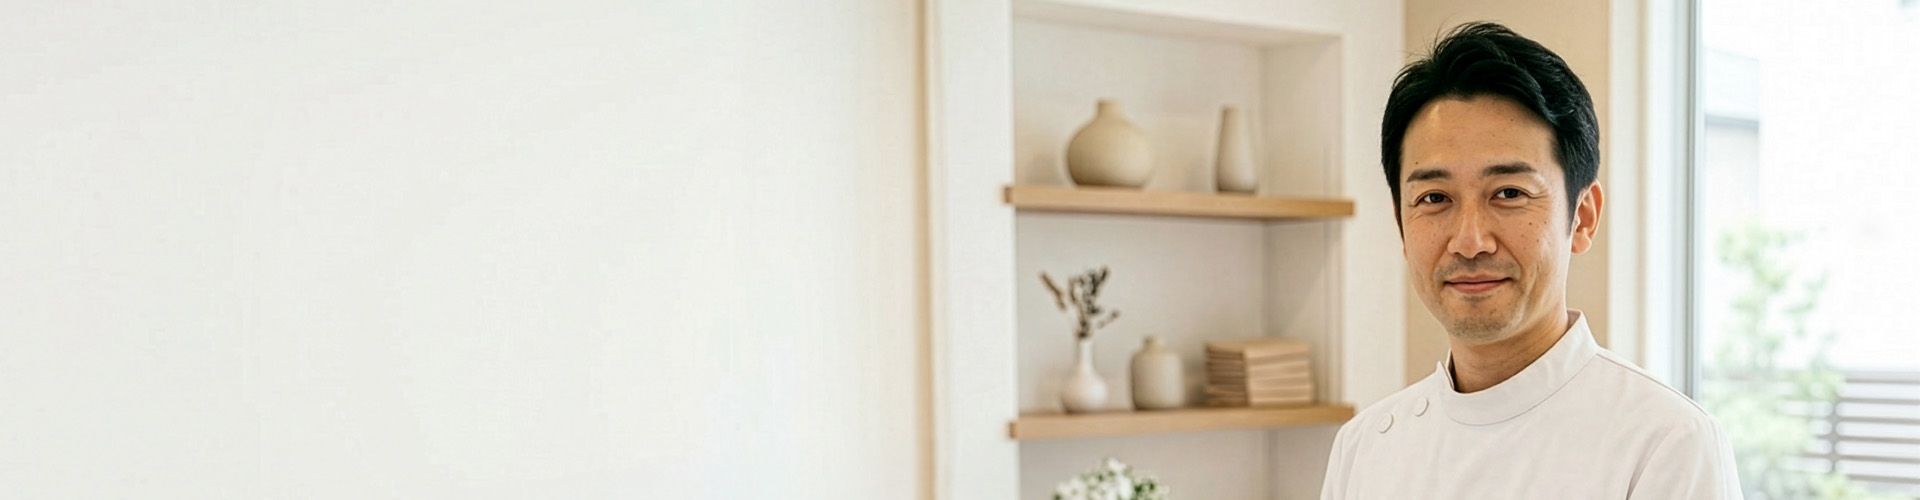
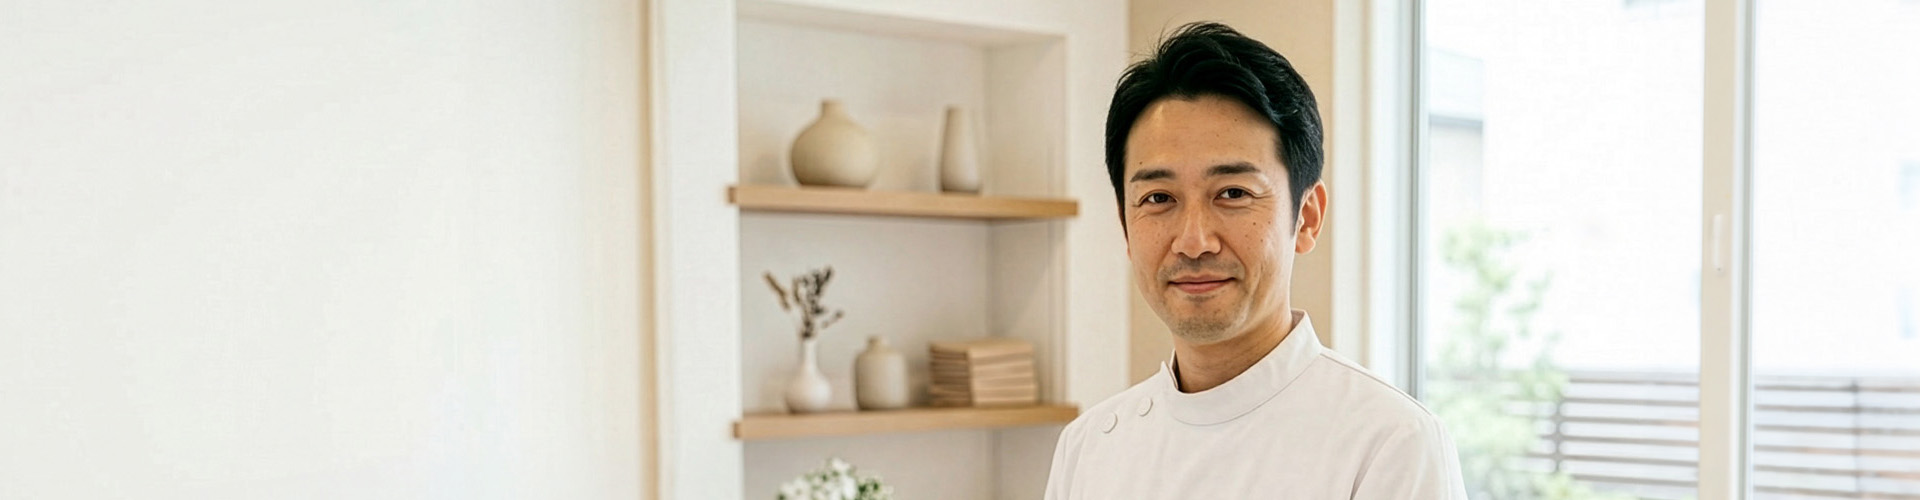
html修正、画像追加・修正

diff --git a/design_handoff_sasai_seikotu_lp/sasai_seikotu.html b/design_handoff_sasai_seikotu_lp/sasai_seikotu.html
@@ -205,7 +205,7 @@
     <!-- image -->
     <div class="lg:col-span-5 relative">
       <div class="relative aspect-[4/5] rounded-[2rem] overflow-hidden shadow-2xl shadow-brand-900/10 ring-1 ring-brand-900/5">
-        <img src="https://placehold.co/640x800/2d8a6e/ffffff?text=施術風景" alt="笹井整骨院 施術風景" class="w-full h-full object-cover" />
+        <img src="images/hero_sasai.jpg" alt="笹井整骨院 施術風景" class="w-full h-full object-cover" />
         <!-- floating badge -->
         <div class="absolute top-5 left-5 bg-white/95 backdrop-blur rounded-2xl px-4 py-3 shadow-lg">
           <div class="text-[10px] text-ink-500 font-semibold tracking-widest">SINCE 2008</div>
@@ -296,7 +296,7 @@
       <div class="lg:col-span-5 lg:sticky lg:top-28">
         <div class="relative">
           <div class="relative aspect-[4/5] rounded-[2rem] overflow-hidden shadow-xl">
-            <img src="https://placehold.co/520x650/e9e4d8/3a4a45?text=お悩みの患者様" alt="事故後の不調に悩む患者様" class="w-full h-full object-cover" />
+            <img src="images/onayami_sasai.jpg" alt="事故後の不調に悩む患者様" class="w-full h-full object-cover" />
           </div>
           <div class="absolute -top-4 -right-4 bg-alert text-white rounded-full w-24 h-24 grid place-items-center text-center shadow-lg rotate-[8deg]">
             <div>
@@ -329,7 +329,7 @@
         </div>
         <div class="grid lg:grid-cols-12 gap-8 lg:gap-12 items-start">
           <div class="lg:col-span-5">
-            <img src="https://placehold.co/600x450/2d8a6e/ffffff?text=Reason+01" alt="" class="w-full aspect-[4/3] object-cover rounded-2xl shadow-lg" />
+            <img src="images/reason1_sasai.jpg" alt="笹井整骨院 専門施術の様子" class="w-full aspect-[4/3] object-cover rounded-2xl shadow-lg" />
           </div>
           <div class="lg:col-span-7">
             <h3 class="serif font-black text-2xl lg:text-3xl leading-snug">事故対応 3,200件以上の<br/>経験に裏打ちされた施術</h3>
@@ -367,7 +367,7 @@
             </div>
           </div>
           <div class="lg:col-span-5 lg:order-1">
-            <img src="https://placehold.co/600x450/dcefe3/206d58?text=Reason+02" alt="" class="w-full aspect-[4/3] object-cover rounded-2xl shadow-lg" />
+            <img src="images/reason2_sasai.jpg" alt="自賠責保険手続きの説明を受ける患者様" class="w-full aspect-[4/3] object-cover rounded-2xl shadow-lg" />
           </div>
         </div>
       </div>
@@ -381,7 +381,7 @@
         </div>
         <div class="grid lg:grid-cols-12 gap-8 lg:gap-12 items-start">
           <div class="lg:col-span-5">
-            <img src="https://placehold.co/600x450/206d58/ffffff?text=Reason+03" alt="" class="w-full aspect-[4/3] object-cover rounded-2xl shadow-lg" />
+            <img src="images/reason3_sasai.jpg" alt="オーダーメイド施術の手元" class="w-full aspect-[4/3] object-cover rounded-2xl shadow-lg" />
           </div>
           <div class="lg:col-span-7">
             <h3 class="serif font-black text-2xl lg:text-3xl leading-snug">柔道整復師が一人ひとりに<br/>合わせた施術プランを設計</h3>
@@ -414,7 +414,7 @@
             </div>
           </div>
           <div class="lg:col-span-5 lg:order-1">
-            <img src="https://placehold.co/600x450/f1f9f5/206d58?text=Reason+04" alt="" class="w-full aspect-[4/3] object-cover rounded-2xl shadow-lg" />
+            <img src="images/reason4_sasai.jpg" alt="夜間も営業する笹井整骨院の外観" class="w-full aspect-[4/3] object-cover rounded-2xl shadow-lg" />
           </div>
         </div>
       </div>
@@ -428,7 +428,7 @@
         </div>
         <div class="grid lg:grid-cols-12 gap-8 lg:gap-12 items-start">
           <div class="lg:col-span-5">
-            <img src="https://placehold.co/600x450/2d8a6e/ffffff?text=Reason+05" alt="" class="w-full aspect-[4/3] object-cover rounded-2xl shadow-lg" />
+            <img src="images/reason5_sasai.jpg" alt="保険会社・弁護士との連携相談の様子" class="w-full aspect-[4/3] object-cover rounded-2xl shadow-lg" />
           </div>
           <div class="lg:col-span-7">
             <h3 class="serif font-black text-2xl lg:text-3xl leading-snug">めんどうな保険手続きも<br/>丸ごとサポートします</h3>
@@ -450,7 +450,7 @@
 <!-- ============ CTA BANNER 1 ============ -->
 <section class="relative py-16 lg:py-20 overflow-hidden">
   <div class="absolute inset-0">
-    <img src="https://placehold.co/1920x500/123a30/ffffff?text=" alt="" class="w-full h-full object-cover" />
+    <img src="images/cta1_sasai.jpg" alt="笹井整骨院 院内の落ち着いた雰囲気" class="w-full h-full object-cover" />
     <div class="absolute inset-0 bg-gradient-to-r from-brand-900/95 via-brand-800/85 to-brand-700/70"></div>
   </div>
   <div class="relative max-w-7xl mx-auto px-5 lg:px-8 text-white">
@@ -576,27 +576,27 @@
 
     <div class="grid grid-cols-12 gap-3 lg:gap-5">
       <figure class="col-span-12 lg:col-span-7 row-span-2">
-        <img src="https://placehold.co/800x800/dcefe3/206d58?text=待合スペース" alt="待合スペース" class="w-full aspect-square object-cover rounded-2xl" />
+        <img src="images/clinic1.jpg" alt="待合スペース" class="w-full aspect-square object-cover rounded-2xl" />
         <figcaption class="mt-2 text-sm text-ink-500">広々とした待合スペース</figcaption>
       </figure>
       <figure class="col-span-6 lg:col-span-5">
-        <img src="https://placehold.co/600x400/f1f9f5/2d8a6e?text=施術ベッド" alt="" class="w-full aspect-[3/2] object-cover rounded-2xl" />
+        <img src="images/clinic2.jpg" alt="施術ベッド" class="w-full aspect-[3/2] object-cover rounded-2xl" />
         <figcaption class="mt-2 text-sm text-ink-500">プライバシーに配慮した施術ベッド</figcaption>
       </figure>
       <figure class="col-span-6 lg:col-span-5">
-        <img src="https://placehold.co/600x400/2d8a6e/ffffff?text=受付" alt="" class="w-full aspect-[3/2] object-cover rounded-2xl" />
+        <img src="images/clinic3.jpg" alt="受付カウンター" class="w-full aspect-[3/2] object-cover rounded-2xl" />
         <figcaption class="mt-2 text-sm text-ink-500">明るく落ち着いた受付</figcaption>
       </figure>
       <figure class="col-span-6 lg:col-span-4">
-        <img src="https://placehold.co/500x400/f4efe5/3a4a45?text=キッズスペース" alt="" class="w-full aspect-[5/4] object-cover rounded-2xl" />
+        <img src="images/clinic4.jpg" alt="キッズスペース" class="w-full aspect-[5/4] object-cover rounded-2xl" />
         <figcaption class="mt-2 text-sm text-ink-500">キッズスペース完備</figcaption>
       </figure>
       <figure class="col-span-6 lg:col-span-4">
-        <img src="https://placehold.co/500x400/dcefe3/206d58?text=施術機器" alt="" class="w-full aspect-[5/4] object-cover rounded-2xl" />
+        <img src="images/clinic5j.jpg" alt="施術機器" class="w-full aspect-[5/4] object-cover rounded-2xl" />
         <figcaption class="mt-2 text-sm text-ink-500">最新の電気・温熱療法機器</figcaption>
       </figure>
       <figure class="col-span-12 lg:col-span-4">
-        <img src="https://placehold.co/500x400/206d58/ffffff?text=外観" alt="" class="w-full aspect-[5/4] object-cover rounded-2xl" />
+        <img src="images/clinic6.jpg" alt="笹井整骨院 外観" class="w-full aspect-[5/4] object-cover rounded-2xl" />
         <figcaption class="mt-2 text-sm text-ink-500">三宮駅から徒歩5分の外観</figcaption>
       </figure>
     </div>
@@ -606,7 +606,7 @@
 <!-- ============ CTA BANNER 2 ============ -->
 <section class="relative py-16 lg:py-20 overflow-hidden">
   <div class="absolute inset-0">
-    <img src="https://placehold.co/1920x500/16463a/ffffff?text=" alt="" class="w-full h-full object-cover" />
+    <img src="images/cta2_sasai.jpg" alt="笹井整骨院 施術手元のクローズアップ" class="w-full h-full object-cover" />
     <div class="absolute inset-0 bg-gradient-to-l from-brand-900/95 via-brand-800/85 to-brand-700/70"></div>
   </div>
   <div class="relative max-w-7xl mx-auto px-5 lg:px-8 text-white text-center lg:text-left">
@@ -791,7 +791,7 @@
         <div class="relative">
           <div class="absolute -top-4 -left-4 w-full h-full rounded-[2rem] bg-brand-100"></div>
           <div class="relative rounded-[2rem] overflow-hidden shadow-xl aspect-[4/5]">
-            <img src="https://placehold.co/640x800/206d58/ffffff?text=院長+笹井+望" alt="院長 笹井望" class="w-full h-full object-cover" />
+            <img src="images/sasainozomu.jpg" alt="院長 笹井望" class="w-full h-full object-cover" />
           </div>
           <div class="absolute -bottom-5 -right-3 lg:-right-6 bg-white shadow-xl rounded-2xl px-5 py-4 border border-brand-100">
             <div class="text-[10px] text-ink-500 font-bold tracking-widest">DIRECTOR</div>
